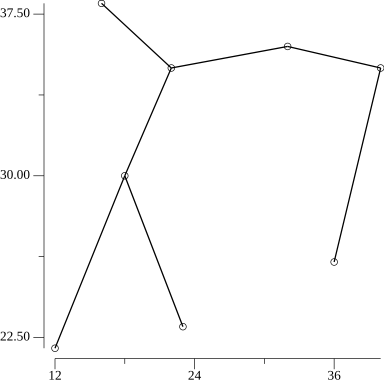
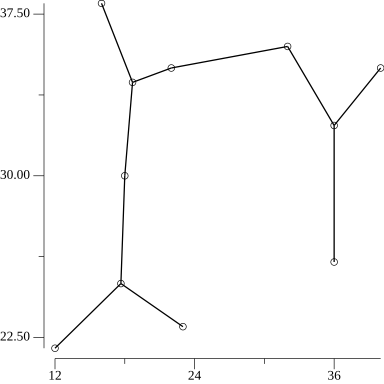
delanay basic implementation

diff --git a/power_plant/steiner/steiner.go b/power_plant/steiner/steiner.go
@@ -5,17 +5,23 @@ import (
 	"fmt"
 	"math"
 
+	"github.com/RH12503/Triangula/geom"
+	"github.com/RH12503/Triangula/normgeom"
+	"github.com/RH12503/Triangula/triangulation"
 	"gonum.org/v1/plot"
 	"gonum.org/v1/plot/plotter"
 	"gonum.org/v1/plot/vg"
 )
 
-func dijkstras(powerPlants []loc) map[loc]map[loc]float64 {
+func prims(powerPlants []loc) (float64, []edge) {
+	// build visited map
+	visited := make(map[loc]bool, len(powerPlants))
 	// build adjacency list of edges
 	adjList := make(map[loc][]edge, len(powerPlants))
 
-	// initialize adjacency list
+	// initialize visited map and adjacency list
 	for i, powerPlantI := range powerPlants {
+		visited[powerPlantI] = false
 		for j := i + 1; j < len(powerPlants); j++ {
 			powerPlantJ := powerPlants[j]
 			// from power plant I to power plant J
@@ -27,61 +33,7 @@ func dijkstras(powerPlants []loc) map[loc]map[loc]float64 {
 		}
 	}
 
-	// build dp table
-	shortestPaths := make(map[loc]map[loc]float64, len(powerPlants))
-	for _, powerPlantI := range powerPlants {
-		shortestPaths[powerPlantI] = make(map[loc]float64, len(powerPlants))
-		for _, powerPlantJ := range powerPlants {
-			// same power plant so 0 distance
-			if powerPlantI.x == powerPlantJ.x && powerPlantI.y == powerPlantJ.y {
-				shortestPaths[powerPlantI][powerPlantJ] = 0
-			} else {
-				shortestPaths[powerPlantI][powerPlantJ] = math.MaxFloat64
-			}
-		}
-	}
-
-	// dijkstra's algorithm
-	for _, powerPlant := range powerPlants {
-		queue := []loc{powerPlant}
-		visited := make(map[loc]bool, len(powerPlants))
-		visited[powerPlant] = true
-		for len(queue) > 0 {
-			popped := queue[0]
-			queue = queue[1:]
-			for _, edge := range adjList[popped] {
-				if !visited[edge.to] {
-					shortestPaths[powerPlant][edge.to] = shortestPaths[powerPlant][edge.from] + edge.cost
-					visited[edge.to] = true
-					queue = append(queue, edge.to)
-				}
-			}
-		}
-	}
-	return shortestPaths
-}
-
-func metricClosure(powerPlants []loc, shortestPaths map[loc]map[loc]float64) map[loc][]edge {
-	adjList := make(map[loc][]edge, len(powerPlants))
-
-	for from, m := range shortestPaths {
-		for to, cost := range m {
-			// exclude edges from power plant to itself
-			if cost != 0.0 {
-				// only need to go one way as shortestPaths has all combinations
-				fromTo := edge{from, to, cost}
-				adjList[from] = append(adjList[from], fromTo)
-			}
-		}
-	}
-	return adjList
-}
-
-func prims(powerPlants []loc, adjList map[loc][]edge) (float64, []edge) {
-	// build visited map
-	visited := make(map[loc]bool, len(powerPlants))
-
-	// initialize heap with point 0 edges
+	// initailize heap with point 0 edges
 	pointZeroEdges := adjList[powerPlants[0]]
 	h := make(Heap, len(pointZeroEdges))
 	copy(h, pointZeroEdges)
@@ -97,6 +49,7 @@ func prims(powerPlants []loc, adjList map[loc][]edge) (float64, []edge) {
 	for h.Len() > 0 && visitedCount < len(powerPlants) {
 		// get neighbour edge with lowest cost
 		minEdge := heap.Pop(&h).(edge)
+
 		// we are going from current tree to new vertex
 		newVertex := minEdge.to
 		if visited[minEdge.to] {
@@ -116,6 +69,40 @@ func prims(powerPlants []loc, adjList map[loc][]edge) (float64, []edge) {
 		}
 	}
 	return rollingCost, edges
+}
+
+func calculateEdgeCost(powerPlants []loc, i, j int) float64 {
+	sumSquares := math.Pow(powerPlants[i].x-powerPlants[j].x, 2) + math.Pow(powerPlants[i].y-powerPlants[j].y, 2)
+	return math.Pow(sumSquares, 0.5)
+}
+
+func nonTerminal(powerPlants []loc, w int, h int) []loc {
+	// delauney triangulation
+	powerPlantMap := make(map[loc]bool, len(powerPlants))
+	// Triangulate(points normgeom.NormPointGroup, w, h int) []geom.Triangle
+	var points normgeom.NormPointGroup
+	for _, powerPlant := range powerPlants {
+		points = append(points, normgeom.NormPoint{powerPlant.x, powerPlant.y})
+		powerPlantMap[powerPlant] = true
+	}
+
+	// add non-terminal nodes
+	nonTerminalNodes := make([]loc, 0)
+	for _, triangle := range triangulation.Triangulate(points, w, h) {
+		nonTerminal := centroid(triangle)
+		if !powerPlantMap[nonTerminal] {
+			nonTerminalNodes = append(nonTerminalNodes, nonTerminal)
+		}
+	}
+	return nonTerminalNodes
+}
+
+func centroid(triangle geom.Triangle) loc {
+	centroid := loc{
+		x: float64(triangle.Points[0].X+triangle.Points[1].X+triangle.Points[2].X) / 3.0,
+		y: float64(triangle.Points[0].Y+triangle.Points[1].Y+triangle.Points[2].Y) / 3.0,
+	}
+	return centroid
 }
 
 func plotCosts(powerPlants []loc, edges []edge) {
@@ -147,23 +134,6 @@ func plotCosts(powerPlants []loc, edges []edge) {
 	}
 }
 
-type Heap []edge
-
-func (h *Heap) Push(x interface{}) { *h = append(*h, x.(edge)) }
-func (h *Heap) Pop() interface{} {
-	previous, n := *h, h.Len()
-	*h = previous[:n-1]
-	return previous[n-1]
-}
-func (h Heap) Len() int           { return len(h) }
-func (h Heap) Swap(i, j int)      { h[i], h[j] = h[j], h[i] }
-func (h Heap) Less(i, j int) bool { return h[i].cost < h[j].cost }
-
-func calculateEdgeCost(powerPlants []loc, i, j int) float64 {
-	sumSquares := math.Pow(powerPlants[i].x-powerPlants[j].x, 2) + math.Pow(powerPlants[i].y-powerPlants[j].y, 2)
-	return math.Pow(sumSquares, 0.5)
-}
-
 type loc struct {
 	x float64
 	y float64
@@ -175,17 +145,17 @@ type edge struct {
 	cost float64
 }
 
-// func nonTerminalNodes(southWest loc, northEast loc, numPoints float64) []loc {
-// 	x := (northEast.x - southWest.x) / numPoints
-// 	y := (northEast.y - southWest.y) / numPoints
-// 	nonTerminal := make([]loc, 0)
-// 	for i := southWest.x; i <= northEast.x; i += x {
-// 		for j := southWest.y; j <= northEast.y; j += y {
-// 			nonTerminal = append(nonTerminal, loc{i, j})
-// 		}
-// 	}
-// 	return nonTerminal
-// }
+type Heap []edge
+
+func (h *Heap) Push(x interface{}) { *h = append(*h, x.(edge)) }
+func (h *Heap) Pop() interface{} {
+	previous, n, popped := *h, h.Len(), edge{}
+	*h, popped = previous[:n-1], previous[n-1]
+	return popped
+}
+func (h Heap) Len() int           { return len(h) }
+func (h Heap) Swap(i, j int)      { h[i], h[j] = h[j], h[i] }
+func (h Heap) Less(i, j int) bool { return h[i].cost < h[j].cost }
 
 func main() {
 	powerPlants := []loc{
@@ -198,17 +168,17 @@ func main() {
 		{32, 36},
 		{40, 35},
 	}
-	// nonTerminal := nonTerminalNodes(loc{10, 20}, loc{40, 40}, 20)
-	// allNodes := append(powerPlants, nonTerminal...)
-	shortestPaths := dijkstras(powerPlants)
-
-	adjList := metricClosure(powerPlants, shortestPaths)
-	// fmt.Println(adjList)
-
-	cost, edges := prims(powerPlants, adjList)
-
-	// edges = steinerTree(powerPlants, edges, nonTerminal)
-
-	plotCosts(powerPlants, edges)
-	fmt.Println(cost, edges)
+	minCost, minEdges := prims(powerPlants)
+	finalNodes := powerPlants
+	for _, nT := range nonTerminal(powerPlants, 1, 1) {
+		cost, edges := prims(append(finalNodes, nT))
+		if cost < minCost {
+			fmt.Println(minCost)
+			minCost = cost
+			minEdges = edges
+			finalNodes = append(finalNodes, nT)
+		}
+	}
+	plotCosts(finalNodes, minEdges)
+	fmt.Println(minCost, minEdges)
 }

diff --git a/power_plant/prims/prims.go b/power_plant/prims/prims.go
@@ -46,6 +46,7 @@ func prims(powerPlants []loc) (float64, []edge) {
 	for h.Len() > 0 && visitedCount < len(powerPlants) {
 		// get neighbour edge with lowest cost
 		minEdge := heap.Pop(&h).(edge)
+
 		// we are going from current tree to new vertex
 		newVertex := minEdge.to
 		if visited[minEdge.to] {
